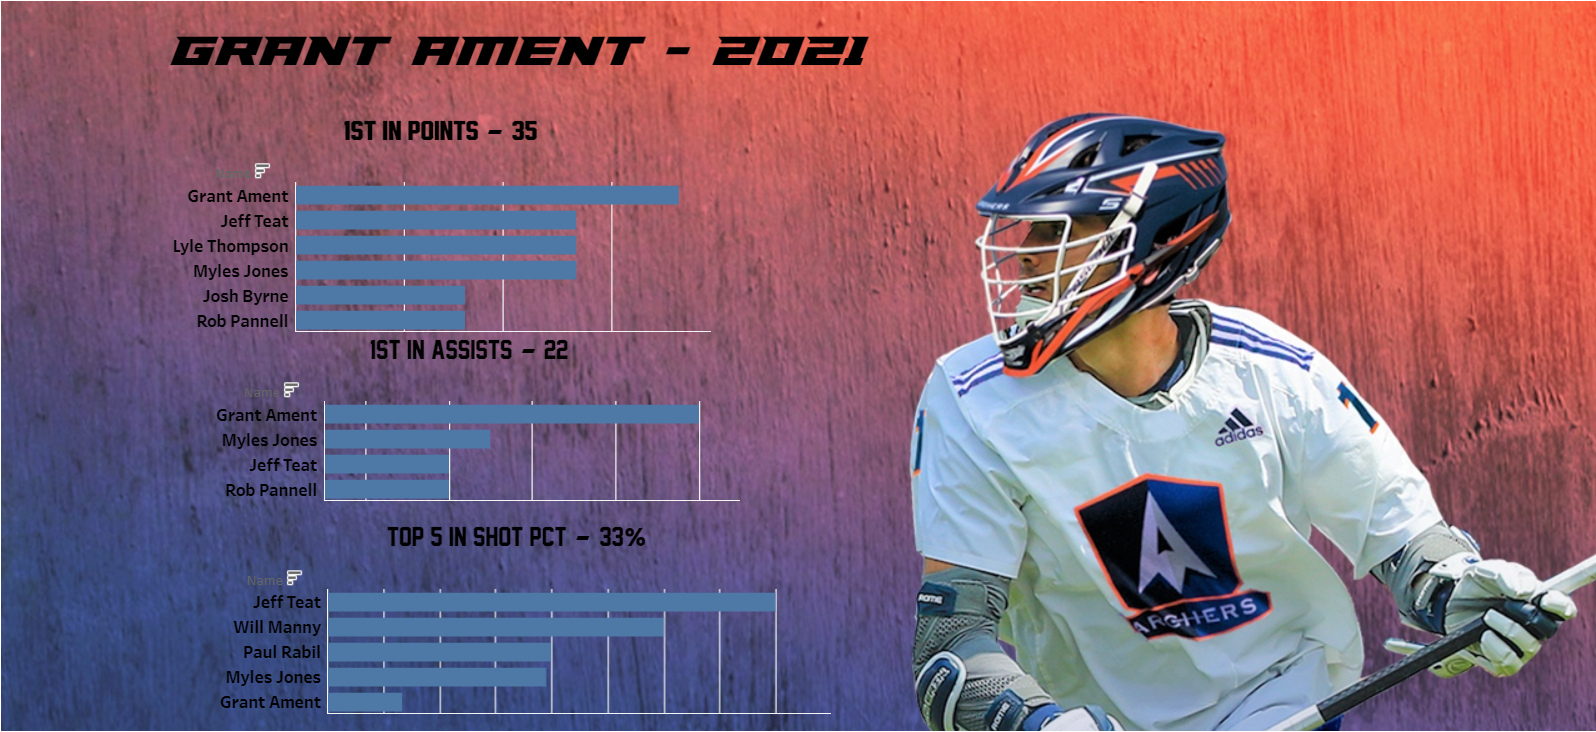
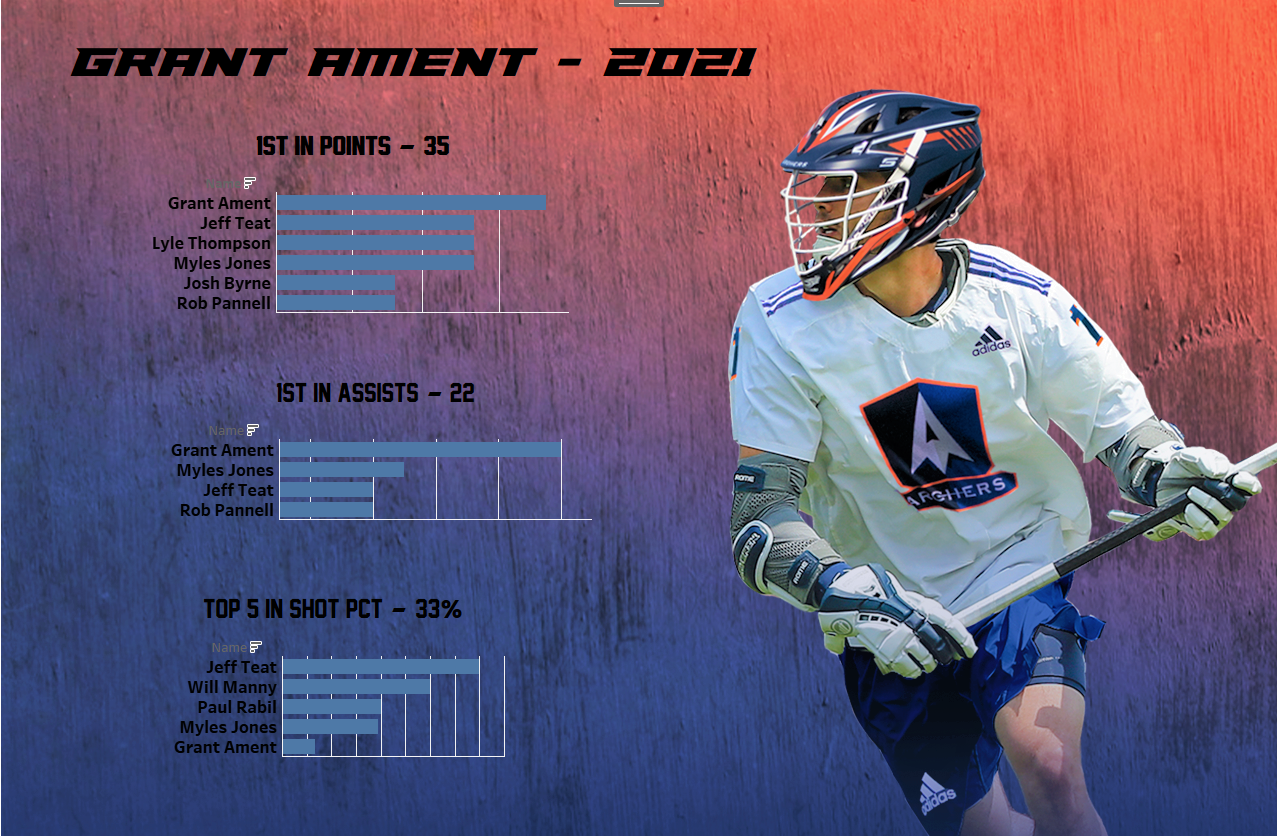
Updated readme and screenshot to local version.

diff --git a/README.md b/README.md
@@ -8,6 +8,6 @@ My first visualization, featuring highlights of Grant Ament's season, can be fou
 
 ![](Resources/ament_dash.PNG)
 
-https://public.tableau.com/views/grant_ament_dashboard/Dashboard1?:language=en-US&publish=yes&:display_count=n&:origin=viz_share_link
+[Grant Ament 2021 Overview - Tableau Public Dashboard](https://public.tableau.com/views/grant_ament_dashboard/Dashboard1?:language=en-US&publish=yes&:display_count=n&:origin=viz_share_link)
 
 
